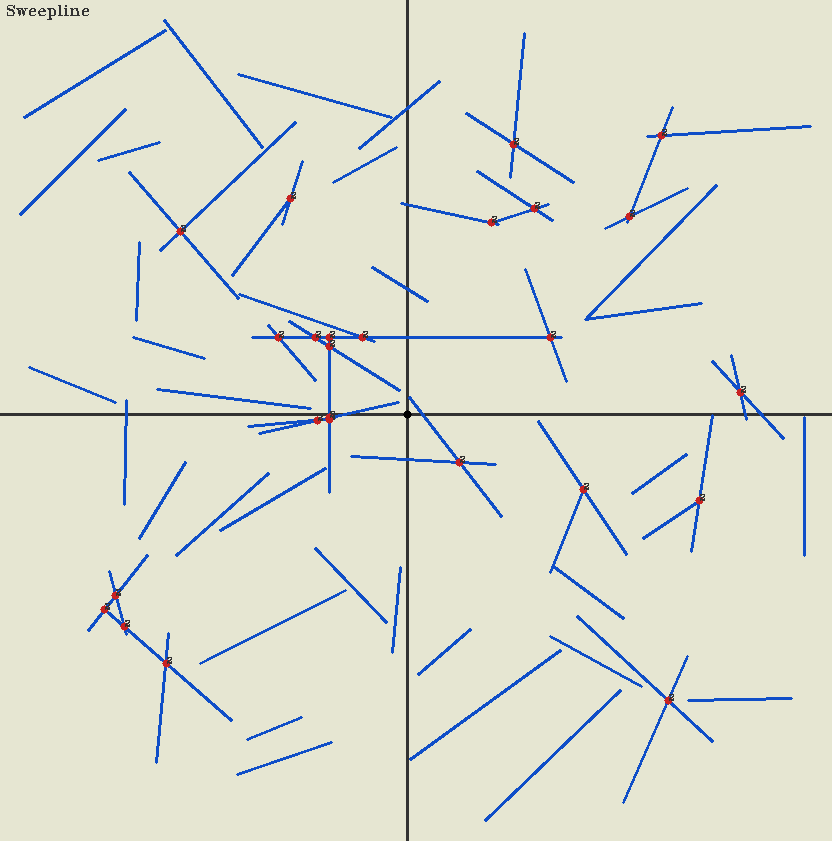
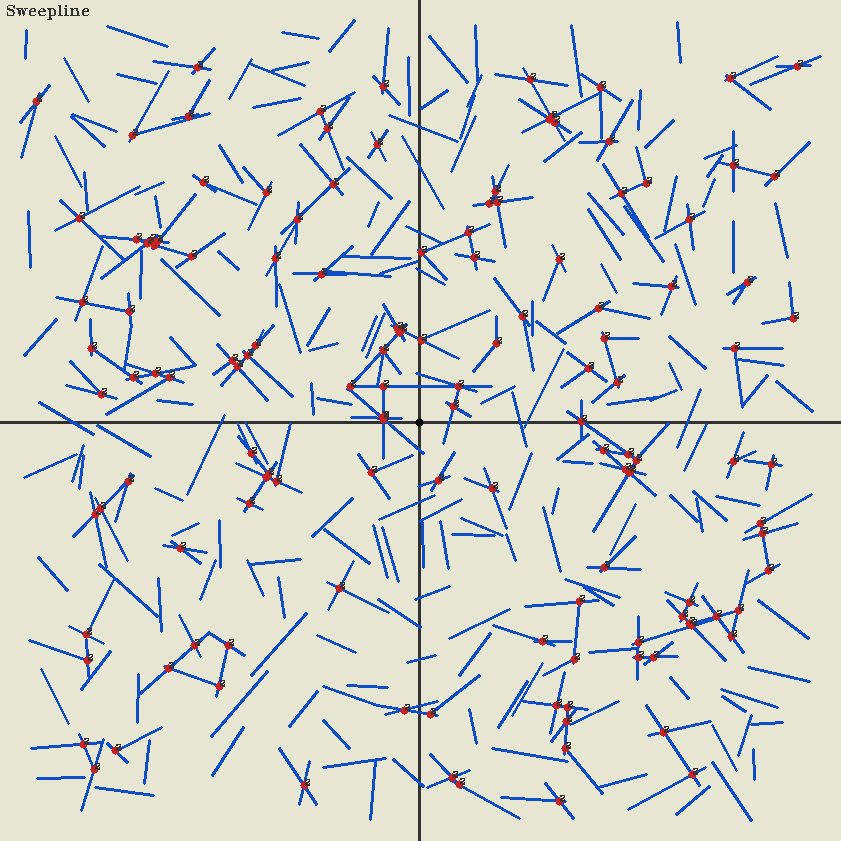
connectedcomponents added

diff --git a/Vessels/DoublyConnectedEdgeList.h b/Vessels/DoublyConnectedEdgeList.h
@@ -54,7 +54,65 @@ class PlanarGraph {
 				LOG(ERROR) << "there exists isolated point with index: " << r_1;
 			}
 		}
+		if (this->relationships_.size() != this->vertices_.size()) {
+			LOG(ERROR) << "there exists isolated point with no connections with others!";
+		}
 		this->num_edges_ /= 2;
+	};
+
+	// trimConnectedComponents: return num of components being trimmed
+	int trimConnectedComponents(int num, int id, std::map<int, std::vector<int>> *ptr_relationships,
+															std::vector<int> *residuals) {
+		if ((*residuals).size() == 0 || num == 0) {
+			return 0;
+		}
+		int trimmed = 0;
+		if (num < 0) {
+			num = (*residuals).size();
+		}
+		if (num == 1) {
+			int entry = id;
+			if (entry < 0) {
+				entry = residuals->back();
+				residuals->pop_back();
+			} else {
+				std::vector<int>::iterator ptr_checker = find(residuals->begin(), residuals->end(), entry);
+				if (ptr_checker != residuals->end()) {
+					residuals->erase(ptr_checker);
+				} else {
+					entry = -1;
+				}
+			}
+			if (entry < 0) {
+				return 0;
+			} else {
+				std::vector<int>::iterator iter;
+				for (iter = (*ptr_relationships)[entry].begin(); iter != (*ptr_relationships)[entry].end(); iter++) {
+					trimConnectedComponents(1, *iter, ptr_relationships, residuals);
+				};
+				return 1;
+			}
+		} else {
+			while (trimmed < num) {
+				int tmp_this_time_ = trimConnectedComponents(1, -1, ptr_relationships, residuals);
+				if (tmp_this_time_ < 1) {
+					break;
+				} else {
+					trimmed++;
+				}
+			}
+			return trimmed;
+		}
+	};
+
+	// CheckConnectedComponents: check all the connected components
+	bool CheckConnectedComponents() {
+		std::vector<int> residuals_;
+		for (int _i = 0; _i < this->vertices_.size(); _i++) {
+			residuals_.push_back(_i);
+		}
+		int num_conn_comp_ = trimConnectedComponents(-1, -1, &(this->relationships_), &residuals_);
+		LOG(INFO) << "number of components detected: " << num_conn_comp_;
 	};
 };
 

diff --git a/main.cpp b/main.cpp
@@ -320,13 +320,22 @@ void dbconnected_edgelist_test() {
 	vertices.push_back(Point(EUC2D, -1, 1));
 	vertices.push_back(Point(EUC2D, 1, 3));
 	vertices.push_back(Point(EUC2D, 2, 2));
+	vertices.push_back(Point(EUC2D, 2, -2));
+	vertices.push_back(Point(EUC2D, 4, -2));
+	vertices.push_back(Point(EUC2D, 0, -3));
+	vertices.push_back(Point(EUC2D, 0, -5));
+	vertices.push_back(Point(EUC2D, 1, -4));
 
 	std::map<int, std::vector<int>> relationships;
-	relationships[0] = std::vector<int>{1, 2, 3};
-	relationships[1] = std::vector<int>{2};
-	relationships[2] = std::vector<int>{3, 2};
+	relationships[0] = std::vector<int>{4, 5};
+	relationships[4] = std::vector<int>{5};
+	relationships[1] = std::vector<int>{2, 3};
+	relationships[2] = std::vector<int>{3};
+	relationships[6] = std::vector<int>{7, 8};
+	relationships[7] = std::vector<int>{8};
 
 	PlanarGraph planar_graph(vertices, relationships);
+	planar_graph.CheckConnectedComponents();
 	DoublyConnectedEdgeList dcel(&planar_graph);
 }
 
@@ -354,12 +363,12 @@ int main(int argc, char **argv) {
 	// avltree_test();
 
 	// line segment intersection test part
-	// sweepline_test(4.0, 2.5, 50, true);
-	// for (float exp_ = 1.2; exp_ < 5.5; exp_ += 0.1) {
-	// 	for (int expr_ = 0; expr_ < 5; expr_ += 1) {
-	// 		sweepline_test(10.0, exp_, 10);	// atof(argv[1]), atoi(argv[2])
-	// 	}
-	// }
+	sweepline_test(4.0, 2.5, 50, true);
+	for (float exp_ = 2.4; exp_ < 3.5; exp_ += 0.1) {
+		for (int expr_ = 0; expr_ < 1; expr_ += 1) {
+			sweepline_test(10.0, exp_, 10, true);	// atof(argv[1]), atoi(argv[2])
+		}
+	}
 
-	dbconnected_edgelist_test();
+	// dbconnected_edgelist_test();
 }
